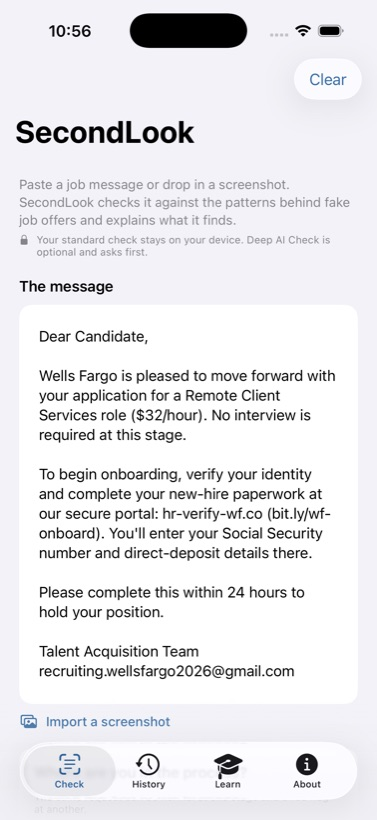
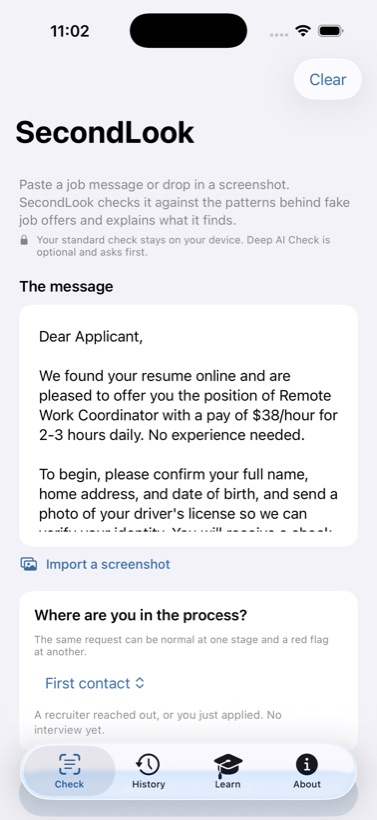
Trademark hygiene: disclaimer + de-brand the marketing surface
Company names used referentially (the company reality check, example
messages) are nominative fair use, but tighten the exposure:

- Affiliation disclaimer added to the site footer, the About tab, and the
  App Review notes: names are referential, no affiliation/endorsement, no
  logos, all example messages fictional.
- Marketing site: screenshots regenerated from a brand-free sample
  (no company named on the page at all now); the employer-impersonation
  feature card describes the behaviour without naming a real company.
- The bundled "impersonation" sample now names the U.S. Postal Service
  instead of a private bank — USPS mail-handler roles are one of the most
  impersonated in real job scams, and referential use of a government
  entity carries no trademark-litigation risk.

130 tests pass.

Claude-Session: https://claude.ai/code/session_016wojEuh2P1wFywCroPofQi

Changed region(s): [[0.0292, 0.3963, 0.9629, 1.0], [0.1167, 0.0305, 0.2334, 0.061]]

diff --git a/docs/index.html b/docs/index.html
@@ -133,7 +133,7 @@
       <div class="card">
         <div class="ic">🏢</div>
         <h3>Catches employer impersonation</h3>
-        <p>When a message name-drops a big employer, SecondLook compares its links to that company's real careers site — from a bundled, offline list. "Says Wells Fargo, but the links go to <code>hr-verify-wf.co</code>. Wells Fargo posts its jobs at wellsfargo.com/careers."</p>
+        <p>When a message name-drops a well-known employer, SecondLook compares its links to that company's real careers site — from a bundled, offline list. If the message says one company but its links point somewhere unrelated, you'll see it, along with the address to type in yourself.</p>
       </div>
       <div class="card">
         <div class="ic">✎</div>
@@ -178,12 +178,12 @@
     <p class="lead">Paste the message, read the report, and sharpen your own eye between checks.</p>
     <div class="shots">
       <figure>
-        <img src="img/shot-home.jpg" alt="The Check screen with a suspicious recruiter message pasted in — a Wells Fargo remote role, no interview, asking you to verify your identity and enter your Social Security number at hr-verify-wf.co within 24 hours" loading="lazy">
+        <img src="img/shot-home.jpg" alt="The Check screen with a suspicious recruiter message pasted in — a Remote Work Coordinator offer paying $38 an hour for 2 to 3 hours a day, asking for ID and a date of birth and to deposit a check and wire the balance to a vendor" loading="lazy">
         <figcaption>Paste a recruiter message or drop in a screenshot.</figcaption>
       </figure>
       <figure>
-        <img src="img/shot-report.jpg" alt="The report: a red banner reading Several things don't line up, a Checked on your device note, a first-contact stage note, and a card reading Says Wells Fargo, but the links go elsewhere — Wells Fargo posts its jobs at wellsfargo.com/careers" loading="lazy">
-        <figcaption>An overall read, an on-device note, then every flag with a reason — including when a big employer's name doesn't match its links.</figcaption>
+        <img src="img/shot-report.jpg" alt="The report: a red banner reading Several things don't line up, tallies of 1 major red flag, 3 unusual, 3 worth noticing, a Checked on your device note, a first-contact stage note, and a plain-language summary" loading="lazy">
+        <figcaption>An overall read, an on-device note, then every flag with a plain reason — never a score.</figcaption>
       </figure>
       <figure>
         <img src="img/shot-practice.jpg" alt="Spot the scam practice mode: message 1 of 6, an onboarding message telling you to deposit a $2,400 check and wire $2,000 back, with Looks legit and Something's off buttons" loading="lazy">
@@ -234,6 +234,7 @@
       <a href="https://reportfraud.ftc.gov" target="_blank" rel="noopener">Report a job scam</a>
       <a href="https://www.identitytheft.gov" target="_blank" rel="noopener">identitytheft.gov</a>
     </div>
+    <div style="max-width:70ch;margin:0 auto 10px">Company names are used only to identify real employers whose names appear in scam messages. SecondLook is not affiliated with, endorsed by, or sponsored by any company named, and every example message is fictional.</div>
     <div>© AvaResearch LLC · SecondLook · Flags patterns, not a verdict.</div>
   </div>
 </footer>

diff --git a/SecondLook/Kit/SampleMessages.swift b/SecondLook/Kit/SampleMessages.swift
@@ -52,23 +52,23 @@ enum SampleMessages {
         ),
         Sample(
             id: "impersonation",
-            label: "\"Wells Fargo\" hiring email",
+            label: "\"USPS\" hiring email",
             stage: .firstContact,
             text: """
             Dear Candidate,
 
-            Wells Fargo is pleased to move forward with your application for a \
-            Remote Client Services role ($32/hour). No interview is required at \
-            this stage.
+            The United States Postal Service is pleased to move forward with your \
+            application for a Remote Mail Processing Clerk role ($30/hour). No \
+            interview is required at this stage.
 
             To begin onboarding, verify your identity and complete your new-hire \
-            paperwork at our secure portal: hr-verify-wf.co (bit.ly/wf-onboard). \
+            paperwork at our secure portal: usps-hr-verify.co (bit.ly/usps-onboard). \
             You'll enter your Social Security number and direct-deposit details there.
 
             Please complete this within 24 hours to hold your position.
 
             Talent Acquisition Team
-            recruiting.wellsfargo2026@gmail.com
+            recruiting.usps2026@gmail.com
             """
         ),
         Sample(

diff --git a/SecondLook/Features/About/AboutView.swift b/SecondLook/Features/About/AboutView.swift
@@ -130,6 +130,9 @@ struct AboutView: View {
                     Text("SecondLook flags patterns. It can't confirm that a message, company, or person is legitimate or fraudulent, and a clean result is not a guarantee of safety.")
                         .font(.caption)
                         .foregroundStyle(.secondary)
+                    Text("Company names appear only to identify real employers whose names are used in scam messages. SecondLook is not affiliated with, endorsed by, or sponsored by any company it names, and every example message in the app is fictional.")
+                        .font(.caption)
+                        .foregroundStyle(.secondary)
                 }
             }
             .navigationTitle("About")

diff --git a/SecondLookTests/EmployerCheckTests.swift b/SecondLookTests/EmployerCheckTests.swift
@@ -67,10 +67,10 @@ final class EmployerCheckTests: XCTestCase {
         XCTAssertNotNil(report.employer)
     }
 
-    func testTheImpersonationSampleFlagsWellsFargo() {
+    func testTheImpersonationSampleFlagsTheNamedEmployer() {
         let sample = SampleMessages.all.first { $0.id == "impersonation" }!
         let report = RuleEngine.analyze(text: sample.text, stage: sample.stage)
-        XCTAssertEqual(report.employer?.employer, "Wells Fargo")
+        XCTAssertEqual(report.employer?.employer, "USPS")
         guard case .linkMismatch? = report.employer?.verdict else { return XCTFail("expected mismatch") }
         XCTAssertEqual(report.overall, .strong)
     }

diff --git a/AppStore/METADATA.md b/AppStore/METADATA.md
@@ -125,3 +125,11 @@ screenshot and message text to our backend (a Cloudflare Worker that proxies a
 third-party model) — only on an explicit tap, after a one-time consent screen,
 and it is revocable in About → AI. This is declared in the privacy manifest as
 Other User Content for App Functionality.
+
+**Third-party company names** (e.g. in the "company reality check" and the
+built-in example messages) are used referentially — to identify real employers
+whose names are impersonated in scam messages and to point the user to that
+employer's own careers site. No affiliation or endorsement is implied or
+claimed, no logos or trade dress are used, and every example message is
+fictional. A disclaimer to this effect appears in the About tab.
+Reminders are local notifications only (opt-out in About) — no push server.
